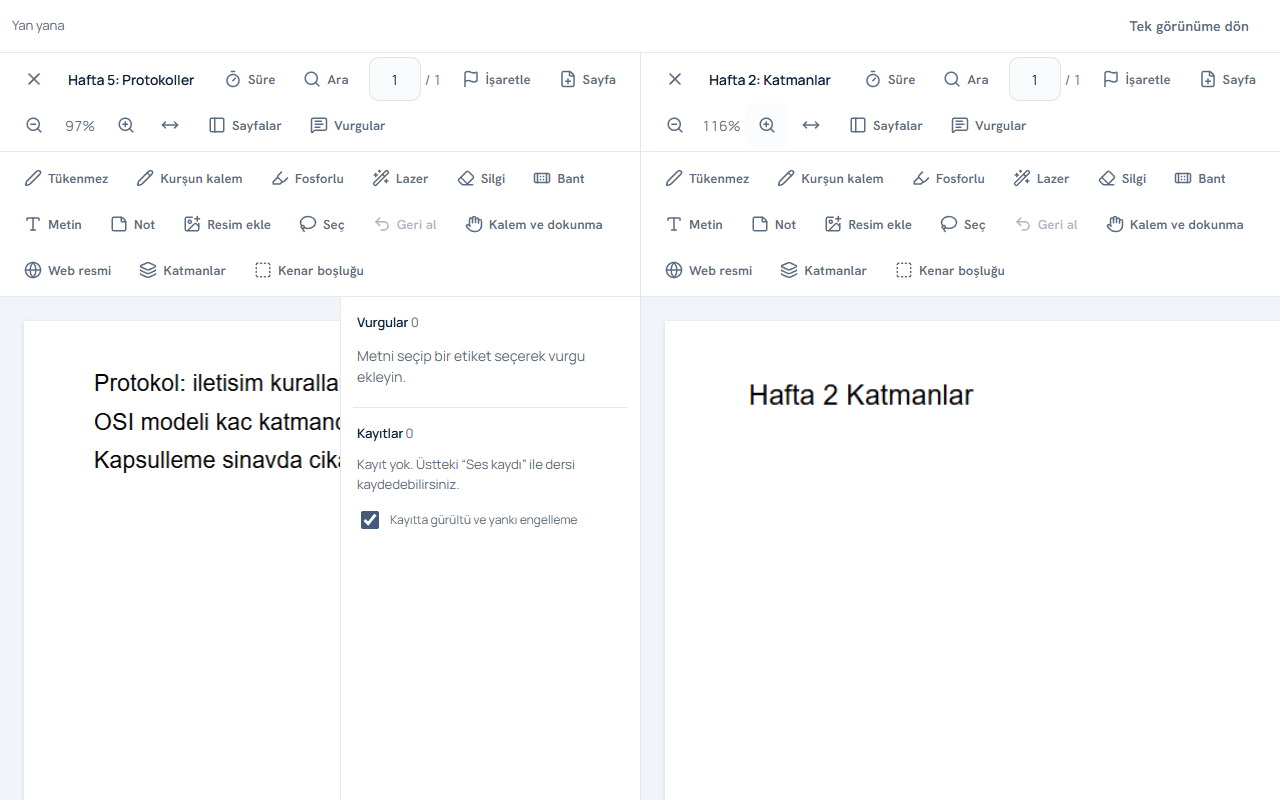
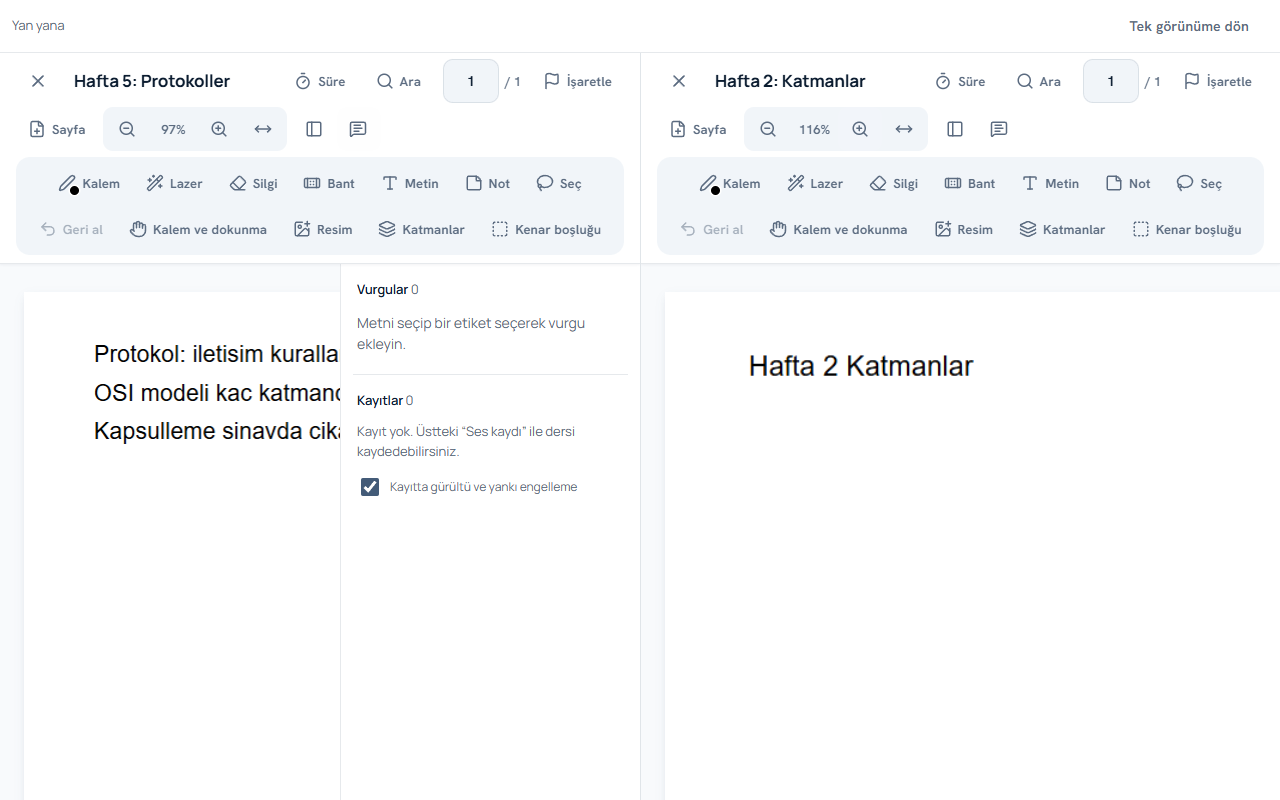
fix(reader): keep toolbar menus above the ink layer; progress notes

diff --git a/src/ui/views/ReaderView.svelte b/src/ui/views/ReaderView.svelte
@@ -523,7 +523,7 @@
 
 <style>
   .reader { display: flex; flex-direction: column; height: 100%; }
-  .toolbar { display: flex; flex-direction: column; border-bottom: 1px solid var(--border); background: var(--surface); box-shadow: var(--shadow-1); position: relative; z-index: 2; }
+  .toolbar { display: flex; flex-direction: column; border-bottom: 1px solid var(--border); background: var(--surface); }
   .row { display: flex; align-items: center; flex-wrap: wrap; gap: 4px 6px; padding: 6px 16px; }
   .row + .row { border-top: 1px solid var(--border); }
   .row.tools {

diff --git a/PROGRESS.md b/PROGRESS.md
@@ -2,6 +2,13 @@
 
 Newest entry first. Each entry records: what was finished, the files touched, the commit, what is half done, the next step and any problems.
 
+## 2026-10-30 (13) — New look "Nito Study Canvas" (branch `worktree-agent-aa05a95fd3bc2ee8b`)
+- **Done:** design tokens (slate-indigo light + dark, radii, shadows, Manrope/Hanken Grotesk bundled via @fontsource-variable, OFL added to the licence allow list); shared Button/IconButton/ToolButton/MenuButton/Dialog/ProgressBar/ThemeSwitch + global `.n-*` blocks (card, chip, badge, eyebrow, kbd) and a `Ring` component. New shell: `Sidebar` (logo, ANA MENÜ with counts, DERSLERİM + klasör ekle, theme switch, collapsible rail; tablets <1100 px start as rail), `TopBar` (global Ctrl+K search → Kütüphane, Süre timer, PDF ekle), `BottomNav` + drawer under 720 px. Redesigned Bugün (resume cards, plan, Leitner boxes, weekly done-minutes chart, next "Sınav" plan countdown, son eklenenler), Kütüphane (title row, durum filter, week groups with collapse, floating detail card, review banner), Program, Notlar, Yapay zekâ, Çalışma Merkezi (card hero, 5 Leitner boxes, course rings with study time, exam chips), reader toolbar (tool dock, icon-only pane toggles <1600 px), Defter pane, timer panel.
+- **Skipped as fake (no backend):** Pomodoro, cloud sync, account/avatar, notifications, Stylus Modu, Cornell notebook, .apkg export, "Hafıza kalıcılığı" score, names in the greeting.
+- **Checks:** svelte-check 0, vitest 193 passed, licences ok, full `npm run e2e` (see commit below).
+- **Next step:** lead merges into main; owner looks at docs/screenshots (home/study/library, phone variants).
+- **Known limits:** in rail mode the theme switch is hidden (expand the sidebar); highlight label colours (core/labels.ts) unchanged.
+
 ## 2026-10-30 (12) — Phase 3.8 four branches merged; redesign still running
 - **Merged on main:** notebook (3fcc524), cross-page selection move, toolbar groups + note colours + "Sayfayı kaldır" (2222301), study time + Whisper accuracy (2b71a1a).
 - **Migration order (final):** m013 notebook, m014 note colour (renamed from 015), m015 study time (renamed from 014). Nobody ran the app between merges, so no real DB has the old numbers.

diff --git a/ROADMAP.md b/ROADMAP.md
@@ -170,7 +170,7 @@ Four parallel worktree agents:
 - ✅ **Notebook ("Defter"):** opens beside the PDF like "Yan yana"; starts with one plain page; add Düz, Kareli, Çizgili, Noktalı pages. Migration 013.
 - ✅ **Move across pages:** move a lasso selection from one page to another (drag and cut/paste).
 - ✅ **Study time + transcription:** stopwatch time saved per PDF and shown in Çalışma Merkezi (migration 015); better Turkish Whisper output (model, beam search, prompt, VAD, hallucination filter).
-- 🟨 **New look (owner design, Stitch export "Nito Study Canvas"):** slate-indigo palette, Manrope + Hanken Grotesk (bundled, OFL), light/dark, new sidebar and shell; Bugün, Kütüphane, Program, Notlar, Yapay zekâ redesigned; Çalışma Merkezi and Reader get a second pass after the Phase 3.8 merges. No fake UI for features that do not exist.
+- ✅ **New look (owner design, Stitch export "Nito Study Canvas"):** slate-indigo palette, Manrope + Hanken Grotesk (bundled, OFL), light/dark, new sidebar and shell; Bugün, Kütüphane, Program, Notlar, Yapay zekâ redesigned; Çalışma Merkezi and Reader restyled after the Phase 3.8 merges. No fake UI for features that do not exist.
 
 ### Phase 4: Release 🟨
 - Code signing (free options first), installer, and an auto-update channel we control.
